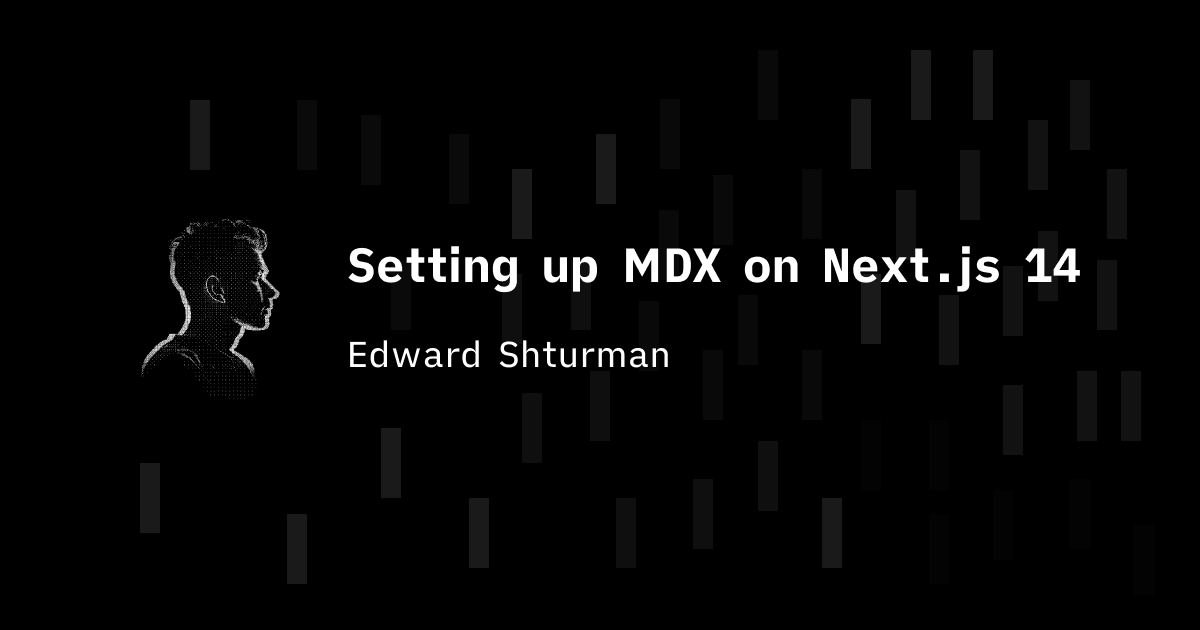
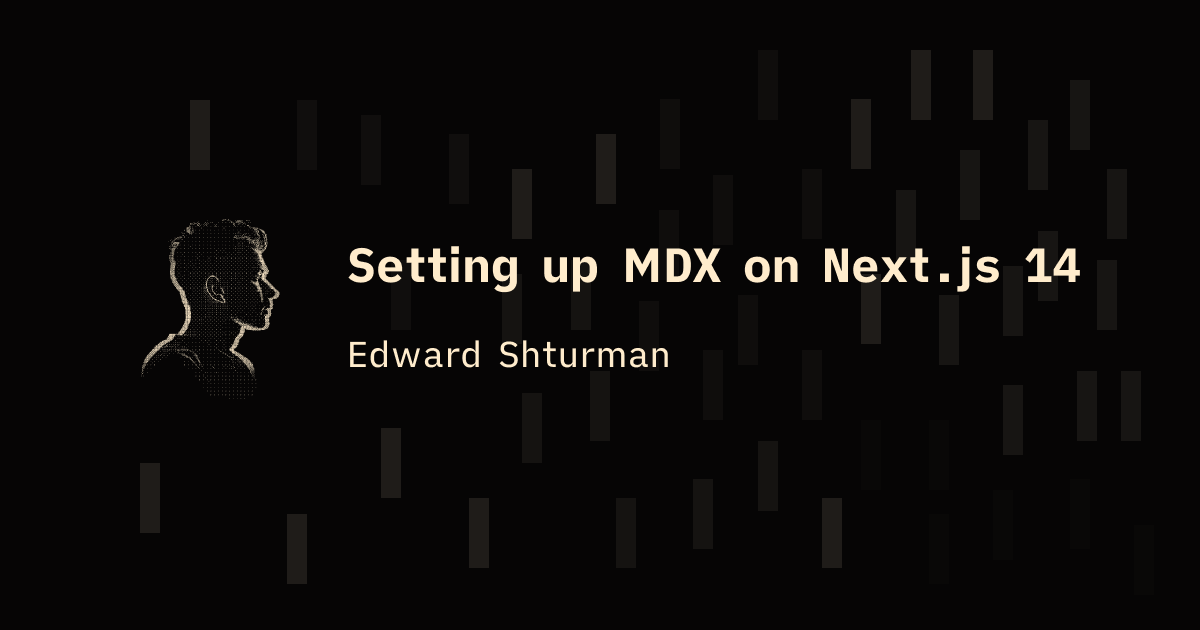
Add slight tint to colors

diff --git a/app/globals.css b/app/globals.css
@@ -2,16 +2,16 @@
   --font-sans: var(--font-ia-writer-quattro), sans-serif;
   --font-mono: var(--font-ia-writer-mono), 'Courier Prime', 'Courier New', ui-monospace, monospace;
 
-  --color-white:                   hsl(0deg, 0%, 100%);
-  --color-black:                   hsl(0deg, 0%, 0%);
-  --color-dark-gray:               hsl(0deg, 0%, 40%);
-  --color-dark-gray-translucent:   hsla(0deg, 0%, 40%, 0.2);
-  --color-light-gray:              hsl(0deg, 0%, 60%);
-  --color-light-gray-translucent:  hsla(0deg, 0%, 60%, 0.2);
-  --color-compsigh:                hsl(41deg, 98%, 59%);
-  --color-compsigh-translucent:    hsla(41deg, 98%, 59%, 0.2);
-  --color-diff-add-translucent:    hsla(120deg, 100%, 25%, 0.2);
-  --color-diff-remove-translucent: hsla(0deg, 100%, 50%, 0.2);
+  --color-white:                   hsla(038deg, 100%, 090%, 1.0);
+  --color-black:                   hsla(038deg, 010%, 002%, 1.0);
+  --color-dark-gray:               hsla(038deg, 010%, 040%, 1.0);
+  --color-dark-gray-translucent:   hsla(038deg, 010%, 040%, 0.2);
+  --color-light-gray:              hsla(038deg, 020%, 060%, 1.0);
+  --color-light-gray-translucent:  hsla(038deg, 020%, 060%, 0.2);
+  --color-compsigh:                hsla(038deg, 100%, 050%, 1.0);
+  --color-compsigh-translucent:    hsla(038deg, 100%, 050%, 0.2);
+  --color-diff-add-translucent:    hsla(120deg, 100%, 025%, 0.2);
+  --color-diff-remove-translucent: hsla(360deg, 100%, 050%, 0.2);
 
   color: var(--color-white);
   background-color: var(--color-black);

diff --git a/app/api/og/route.tsx b/app/api/og/route.tsx
@@ -26,7 +26,7 @@ export async function GET(request: Request) {
       <div
         style={{
           display: 'flex',
-          backgroundColor: 'black',
+          backgroundColor: 'hsla(038deg, 010%, 002%, 1.0)',
           width: '100%',
           height: '100%',
           alignItems: 'center',
@@ -52,7 +52,7 @@ export async function GET(request: Request) {
               fontFamily: '"iA Writer Quattro Bold"',
               fontSize: 50,
               lineHeight: 1.6,
-              color: 'white'
+              color: 'hsla(038deg, 100%, 090%, 1.0)'
             }}
           >
             {title}
@@ -62,7 +62,7 @@ export async function GET(request: Request) {
               fontFamily: '"iA Writer Quattro Regular"',
               fontSize: 30,
               lineHeight: 1.6,
-              color: 'white'
+              color: 'hsla(038deg, 100%, 090%, 1.0)'
             }}
           >
             Edward Shturman
